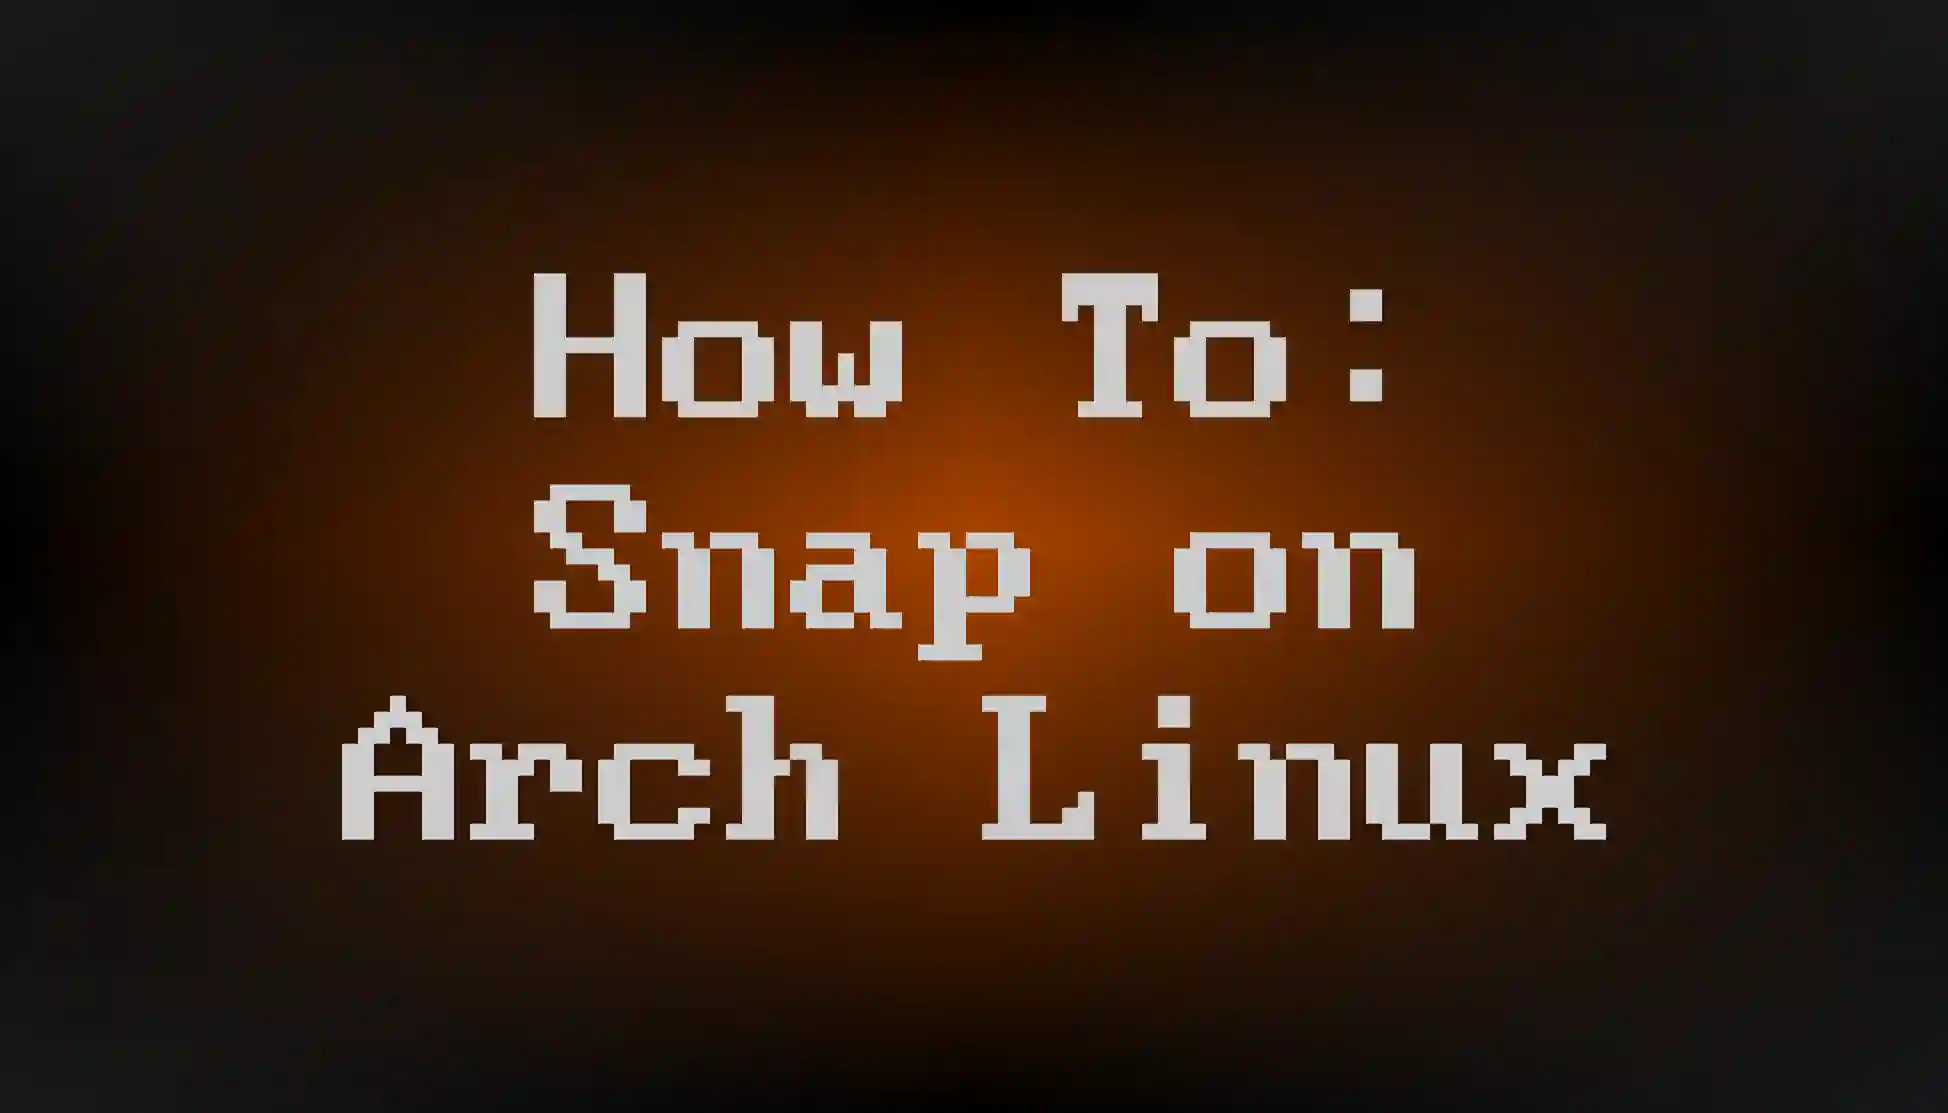
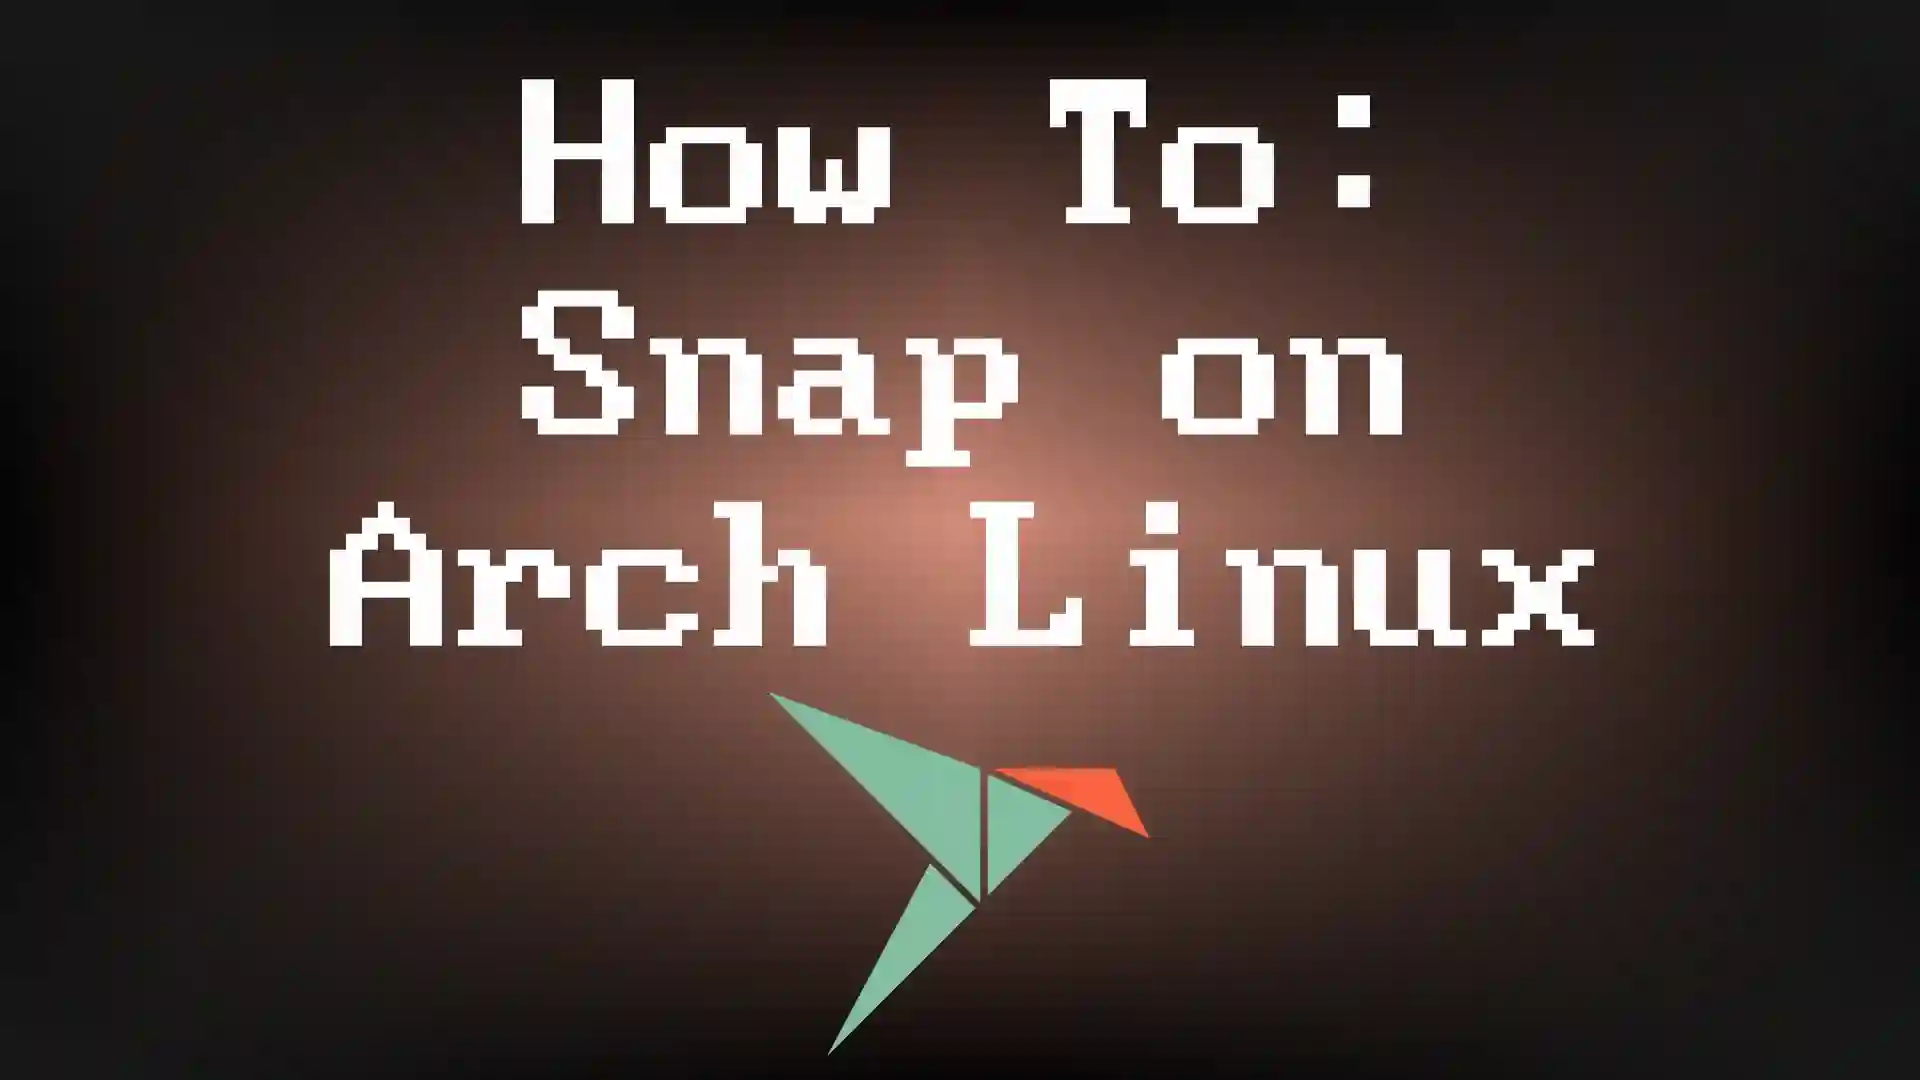
adding current snap - review pending

diff --git a/_posts/2025-09-07-howto-snap.md b/_posts/2025-09-07-howto-snap.md
@@ -1,0 +1,123 @@
+---
+title: "How To: Snap on Arch"
+description:
+date: 2025-09-07 00:00:00
+layout: post
+categories:
+  - packages
+tags:
+  - linux
+  - snap
+  - how-to
+comments: false
+image:
+  path: assets/img/headers/howto-snap-arch.webp
+---
+>"Snaps are app packages for desktop, cloud and IoT that are easy to install, secure, cross‐platform and dependency‐free. Snaps are discoverable and installable from the Snap Store, the app store for Linux with an audience of millions." snapcraft.io
+
+### Prerequisites
+
+Give the [snap](https://wiki.archlinux.org/title/Snap) entry on the Arch Linux wiki a read.
+Below are some environment variables for export or you can add them to your `.zshrc` or `.zshenv` files.
+
+**[XDG]() USER DIRS:**
+```bash
+export XDG_CACHE_HOME=$HOME/.cache
+export XDG_DATA_HOME=$HOME/.local/share
+```
+{: file='~/.zshenv'}
+
+**Go:**
+```bash
+export GOPATH=$XDG_DATA_HOME/go
+export GOMODCACHE=$XDG_CACHE_HOME/go/mod
+```
+### Installation
+
+Using [AUR](https://aur.archlinux.org/):
+Your AUR helper of choice, below we will be using [yay](). The  [snapd](https://aur.archlinux.org/packages/snapd) package it maintained by [bboozzoo].
+
+```bash
+yay install snap
+```
+
+
+### Build it yourself
+
+The guys a [Snapcraft](https://snapcraft.io/docs/installing-snap-on-arch-linux) have instructions on installing the snap daemon on Arch Linux that you can have a look at.
+Give the Arch Wiki a read if you like for the [prerequisites](https://wiki.archlinux.org/title/Arch_User_Repository#Prerequisites) but I have also outlined the packages required below.
+
+**Build dependencies:**
+```bash
+sudo pacman -S base-devel 
+sudo pacman -S squashfs-tools autoconf-archive go go-tools python-docutils
+```
+
+<!--```bash
+sudo modprobe squashfs
+```
+-->
+<!--Log out and back in again, or restart your system
+```bash
+reboot
+``` -->
+
+This is a manual install of the AUR package.
+First we clone the repository then we will `cd` into the working directory (snapd) and `makepkg` to build our version of `snapd` .
+
+```bash
+git clone https://aur.archlinux.org/snapd.git
+cd snapd
+makepkg -si
+```
+
+We need to enable the `snapd.socket` using `systemctl`.
+```bash
+sudo systemctl enable --now snapd.socket
+```
+
+[Snap confinement](https://snapcraft.io/docs/snap-confinement) and application sandboxing is available, it can be enabled by making sure you have [AppArmor](https://wiki.archlinux.org/title/AppArmor#Installation) installed.
+
+We can check to see if he status [apparmor](https://archlinux.org/packages/extra/x86_64/apparmor/) to verify if its installed and enabled. 
+```bash
+systemctl status apparmor.service
+```
+
+Below we enable `apparmor` for the `snapd` daemon.
+```bash
+sudo systemctl enable --now snapd.apparmor.service
+```
+
+For classic `snap` support, we will need to create a symbolic link between `/var/lib/snapd/snap` and `/snap`.
+```bash
+sudo ln -s /var/lib/snapd/snap /snap
+```
+
+Log out and back in again, or restart your system
+```bash
+reboot
+```
+
+Once you have booted back up we can test if everything is working by installing a `snap` package.
+If you already have something you want to install, give it a go, or you can have a look at the [Snap Store](https://snapcraft.io/docs/installing-snap-store-app), otherwise you can install the `hello-world` package to test your configuration is working.
+```bash
+sudo snap install hello-world
+```
+
+Now you can run `hello-world`
+```bash
+hello-world
+```
+
+We can use the same `hello-world` package to test confinement, by running:
+```bash
+hello-world.evil
+```
+
+---
+
+**References:**
+
+- <https://wiki.archlinux.org/title/Snap> - Arch Wiki entry for Snap
+- <https://snapcraft.io/> - Homepage for Snapcraft
+
